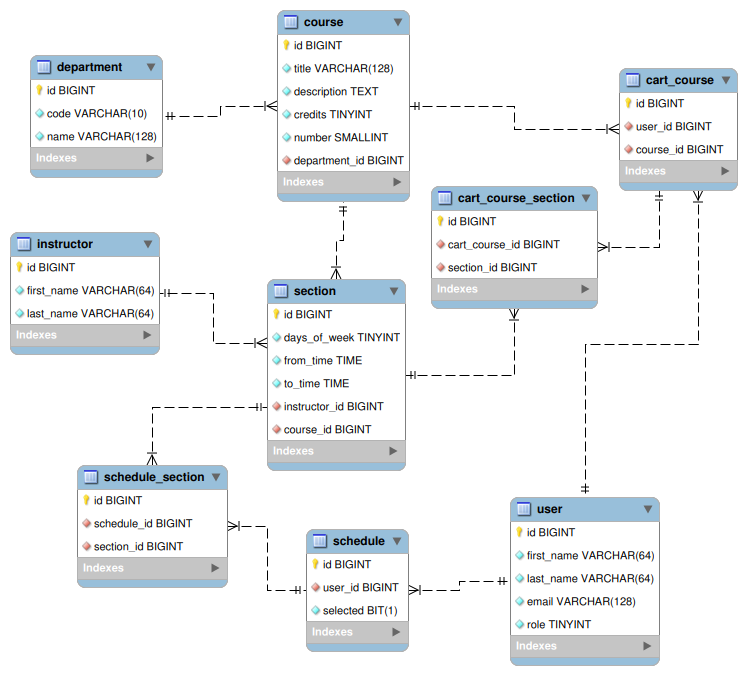
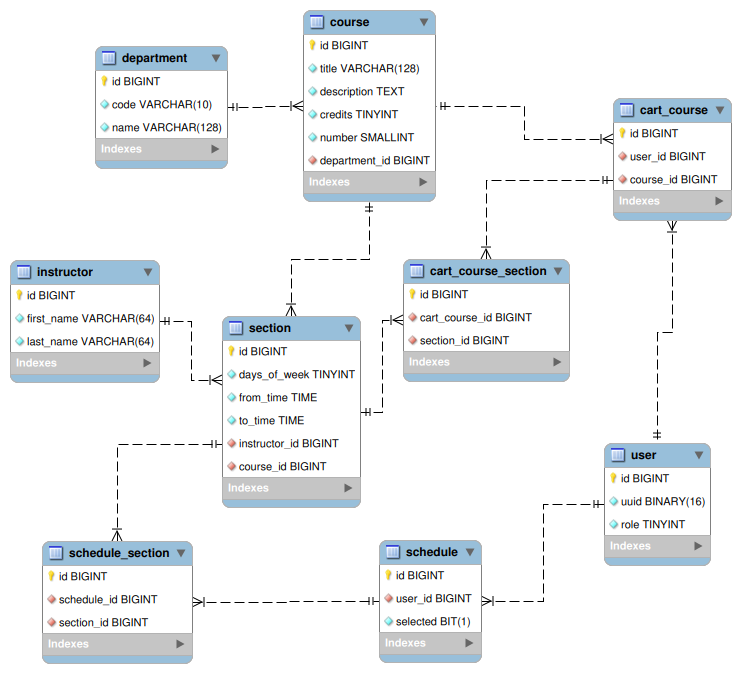
Update documentation

diff --git a/projectPlan.md b/projectPlan.md
@@ -28,31 +28,44 @@
 - [x] Added Maven filters to separate development and production build configuration.
 
 ### Week 8.
-- [ ] Implement [Course Search/Information Page](https://github.com/tvdmitrii/courseSchedulePlanner-api/blob/main/DesignDocuments/screens.md#search-courses-and-view-course-information-page)
-  - [ ] Course Search by Department
-  - [ ] Course Search by Course Title
-  - [ ] View Course Information
-- [ ] Implement authentication with Cognito.
+- [X] Implement [Course Search/Information Page](https://github.com/tvdmitrii/courseSchedulePlanner-api/blob/main/DesignDocuments/screens.md#search-courses-and-view-course-information-page)
+  - [X] Course Search by Department
+  - [X] Course Search by Course Title
+  - [X] View Course Information
+
+### Week 9. Checkpoint 3.
+- [X] Upgrade the framework
+  - [X] Java 21
+  - [X] Tomcat 10.1
+  - [X] Jakarta EE 10
+- [X] Implement authentication with Cognito.
+  - [X] Enable HTTPs on Elastic Beanstalk
+  - [X] Implement proof of concept authentication
+
+### Week 10.
+- [ ] Finish implementing authentication user stories.
   - [ ] Sign Up
   - [ ] Sign In
   - [ ] Sign Out
 
- ### Week 9. Checkpoint 3.
-- [ ] Implement [Course Editing Page](https://github.com/tvdmitrii/courseSchedulePlanner-api/blob/main/DesignDocuments/screens.md#modify-courses-page).
-    - Edit courses
-    - Add new courses
-    - Remove courses
-- [ ] Implement [My Courses / Cart Page](https://github.com/tvdmitrii/courseSchedulePlanner-api/blob/main/DesignDocuments/screens.md#my-courses-page)
-  - [ ] Add courses to cart
-  - [ ] Remove courses from cart
-  - [ ] View Course Information
-  - [ ] Choose Course Sections
+### Week 11.
+- [ ] Implement viewing and choosing course sections
+- [ ] Implement adding courses to "My Courses"
+- [ ] Implement remove courses from "My Courses"
 
-### Week 10
-- [ ] Implement [Section Editing Page](https://github.com/tvdmitrii/courseSchedulePlanner-api/blob/main/DesignDocuments/screens.md#section-edit-overlay)
+### Week 12.
+- [ ] Implement schedule generation
+- [ ] Implement schedule viewing
 
-### Week 11 - 14.
-- [ ] TBD
+### Week 13.
+- [ ] Implement adding courses for admins
+- [ ] Implement editing courses for admins
+- [ ] Implement removing courses for admins
+
+### Week 14.
+- [ ] Implement adding section for admins
+- [ ] Implement editing section for admins
+- [ ] Implement removing section for admins
 
 ### Week 15.
 - [ ] Implement Feedback from Week 14 review

diff --git a/developmentLog.md b/developmentLog.md
@@ -36,8 +36,27 @@
 
 ### Week 7 - (10/07/2024 - 10/13/2024) - ~ 15 hours
 - Split the project into three repositories: WebApp, REST API, API interface.
-- Implement REST API server using.
-- Implement REST API client using.
+- Implement REST API server with Jersey.
+- Implement REST API client with Jersey.
 - Added Maven filters to manage development and production builds.
 - Set up AWS Elastic Beanstalk environment for hosting the database, REST API, and WebApp.
 - Deploy the database, REST API, and WebApp to AWS.
+
+### Week 8 - (10/14/2024 - 10/20/2024) - ~ 15 hours
+- Set up the HTML/CSS template for how the website will look like.
+- Implemented one of the main pages that handles course browsing and search
+
+### Week 9 - (10/21/2024 - 10/27/2024) - ~ 20 hours
+- AWS Elastic Beanstalk retired Tomcat 8 which prompted an upgrade that has been long on my mind.
+  - Java 11 -> Java 21 LTS
+  - Tomcat 8 -> Tomcat 10.1
+  - Java EE 7 -> Jakarta EE 10
+  - JSTL 1.2 -> JSTL 3.0
+  - Jersey 2.45 -> Jersey 3.1.9
+  - Other minor updates
+- Rolled out new Tomcat 10.1 environment on AWS EBS.
+- Enabled HTTPs for the EBS environment to work with Cognito.
+- Added course search by department and/or title functionality to course DAO and REST API.
+- Updated database design to store user UUID from Cognito, but remove all other personally identifiable information.
+- Added REST API user endpoint to handle new user creation and user search by UUID.
+- Implemented proof of concept Cognito authentication integration. The provided code was significantly reworked to take advantage of Jersey Client for fetching user token and com.auth0 libraries for token parsing and validation.
